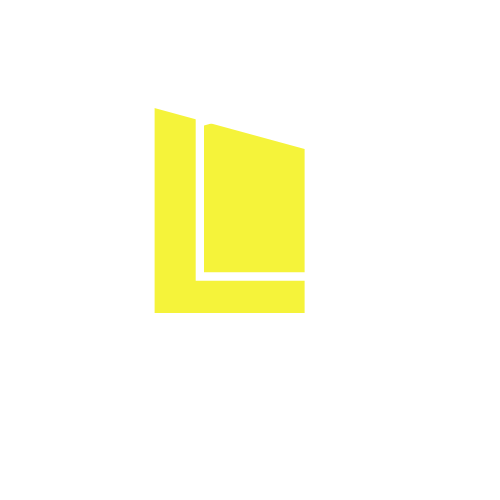
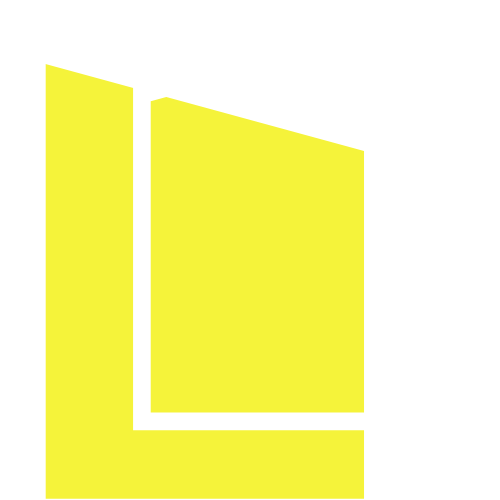
New stock images for Hero

diff --git a/app/page.tsx b/app/page.tsx
@@ -64,7 +64,7 @@ export default function Home() {
       <Navbar />
       <div className="bg-[#012e33] py-24 sm:py-20 drop-shadow-xl">
         <div className="flex flex-col justify-center items-center mx-auto max-w-7xl px-6 lg:px-8">
-          <div className="mx-auto max-w-2xl sm:text-center">
+          <div className="mx-auto max-w-3xl sm:text-center">
             <h2
               className={`${zeyada.className} text-[22px] tracking-wide text-[#f5f33a]`}
             >
@@ -92,15 +92,24 @@ export default function Home() {
             <p
               className={`${pt_sans.className} mt-6 text-lg leading-8 text-white`}
             >
-              Harness the power of AI with EstateCraft AI to elevate your real
-              estate presentations. Our platform enhances your listings with
-              tailored content, optimized design, and interactive features,
-              helping you make a memorable impact and close deals more
-              effectively.
+              Harness the power of AI with{" "}
+              <span
+                className={`${nunito.className} text-[#f5f33a] tracking-wide`}
+              >
+                {" "}
+                EstateCraft AI
+              </span>{" "}
+              to elevate your real estate presentations. Our platform enhances
+              your listings with tailored content, optimized design, and
+              interactive features, helping you make a memorable impact and
+              close deals more effectively.
             </p>
           </div>
           {/* Button is a child / asChild prop is needed */}
-          <Button asChild className="mt-4 bg-[#f5f33a] text-[#637b38]">
+          <Button
+            asChild
+            className={`${fire_sans.className} mt-4 bg-[#f5f33a] text-[#637b38] tracking-wide rounded-2xl`}
+          >
             <Link href="/dashboard">Get Started</Link>
           </Button>
         </div>
@@ -142,9 +151,17 @@ export default function Home() {
               <p
                 className={`${pt_sans.className} mt-6 text-base leading-7 text-white`}
               >
-                Lorem ipsum, dolor sit amet consectetur adipisicing elit.
-                Maiores impedit perferendis suscipit eaque, iste dolor
-                cupiditate blanditiis ratione.
+                It's designed to revolutionize the way real estate agents create
+                and enhance their property listings. By seamlessly integrating
+                PDF uploading, content extraction, and AI-driven
+                recommendations, our platform provides a comprehensive suite of
+                tools to streamline the listing process. Agents can customize
+                professional templates, receive automated content enhancements,
+                and access powerful analytics—all within a single, user-friendly
+                interface. EstateCraft AI empowers agents to efficiently manage
+                their listings, collaborate with teams, and elevate their
+                property presentations, all while leveraging the latest in AI
+                technology to optimize their marketing efforts.
               </p>
             </div>
             <dl className="col-span-2 grid grid-cols-1 gap-x-8 gap-y-10 text-base leading-7 text-white sm:grid-cols-2 lg:gap-y-16">
@@ -162,7 +179,9 @@ export default function Home() {
                     </span>
                   </dt>
                   <dd className="mt-2">
-                    <span className={`${pt_sans.className} tracking-wide text-[16px]`}>
+                    <span
+                      className={`${pt_sans.className} tracking-wide text-[16px]`}
+                    >
                       {feature.description}
                     </span>
                   </dd>

diff --git a/components/Navbar.tsx b/components/Navbar.tsx
@@ -1,5 +1,5 @@
 import Link from "next/link";
-import { Fira_Sans } from "next/font/google";
+import { Fira_Sans, Nunito } from "next/font/google";
 import Image from "next/image";
 import logo from "@/images/EstateCraft.png";
 
@@ -8,32 +8,36 @@ const fire_sans = Fira_Sans({
   subsets: ["latin"],
 });
 
+const nunito = Nunito({
+  subsets: ["latin"],
+});
+
 function Navbar() {
   return (
     <header className="flex justify-between items-center p-4 bg-[#012e33] shadow-md rounded-t-md border-sky-100 border-b-[1px]">
       {" "}
       {/* Logo on the left */}
-      <div className="text-xl font-bold">
-        <Link href="/">
-          <Image 
-            src={logo}
-            alt="EstateCraft AI"
-            width={60}
-            height={60}
-          />
+      <div className="flex items-center space-x-2">
+        <Link href="/" className="flex items-center space-x-2">
+          <Image src={logo} alt="EstateCraft AI" width={40} height={40} />
+          <span className={`${nunito.className} text-white text-lg`}>EstateCraft AI</span>
         </Link>
       </div>
       {/* Buttons on the right */}
       <div className="flex items-center space-x-4">
         <Link href="/login">
-          <button className={`${fire_sans.className} px-4 py-2 text-md tracking-wide text-white hover:bg-gray-200`}>
+          <button
+            className={`${fire_sans.className} px-4 py-2 text-md tracking-wide text-white hover:bg-gray-200`}
+          >
             Login
           </button>
         </Link>
         <div className="h-6 border-l border-gray-300"></div>
 
         <Link href="/signup">
-          <button className={`${fire_sans.className} px-4 py-2 text-sm tracking-wide text-[#637b38] bg-[#f5f33a] rounded-2xl hover:bg-blue-700`}>
+          <button
+            className={`${fire_sans.className} px-4 py-2 text-sm tracking-wide text-[#637b38] bg-[#f5f33a] rounded-2xl hover:bg-blue-700`}
+          >
             Signup
           </button>
         </Link>

diff --git a/components/Hero.tsx b/components/Hero.tsx
@@ -1,18 +1,43 @@
-import shape1 from "@/images/rectangleoval.ong.png";
-import shape2 from "@/images/Verticaloval.png";
+import shape1 from "@/images/roundedRectangle.png";
+import shape2 from "@/images/rectangleOval.png";
 import shape3 from "@/images/longHorizontalOval.png";
-import shape4 from "@/images/roundedRectangle.png";
-import shape5 from "@/images/circle.png";
+import shape4 from "@/images/circle.png";
+import shape5 from "@/images/longOval.png";
 import Image from "next/image";
 
 function Hero() {
   return (
-    <div className="flex items-center justify-center">
-      <Image src={shape1} alt="Shape 1" className="lg:h-[310px] border-2 border-[#f5f33a]" />
-      <Image src={shape2} alt="Shape 2" className="lg:h-[310px] border-2 border-[#f5f33a]" />
-      <Image src={shape3} alt="Shape 3" className="lg:h-[310px] border-2 border-[#f5f33a]" />
-      <Image src={shape4} alt="Shape 4" className="lg:h-[310px] border-2 border-[#f5f33a]" />
-      <Image src={shape5} alt="Shape 5" className="lg:h-[310px] border-2 border-[#f5f33a]" />
+    <div className="flex items-center justify-center space-x-2">
+      <Image
+        src={shape2}
+        priority
+        alt="Shape 2"
+        className="lg:h-[225px] object-contain"
+      />
+      <Image
+        src={shape3}
+        priority
+        alt="Shape 3"
+        className="lg:h-[225px] object-contain"
+      />
+      <Image
+        src={shape4}
+        priority
+        alt="Shape 4"
+        className="lg:h-[225px] object-contain"
+      />
+      <Image
+        src={shape5}
+        priority
+        alt="Shape 5"
+        className="lg:h-[225px] object-contain"
+      />
+      <Image
+        src={shape1}
+        priority
+        alt="Shape 1"
+        className="lg:h-[225px] object-contain"
+      />
     </div>
   );
 }
